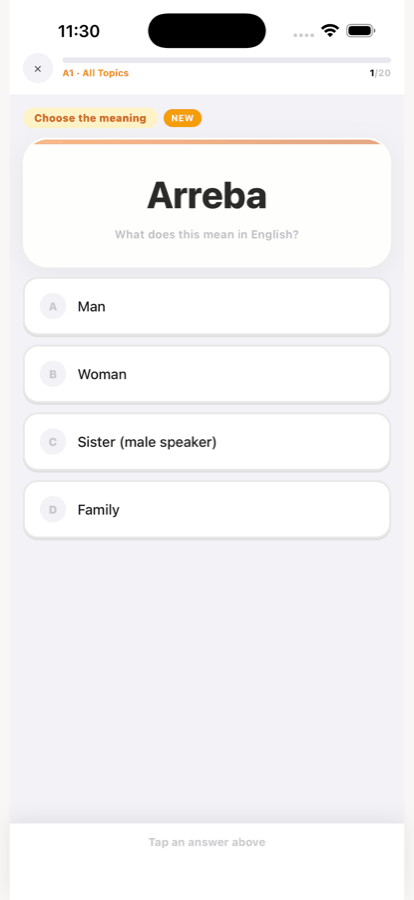
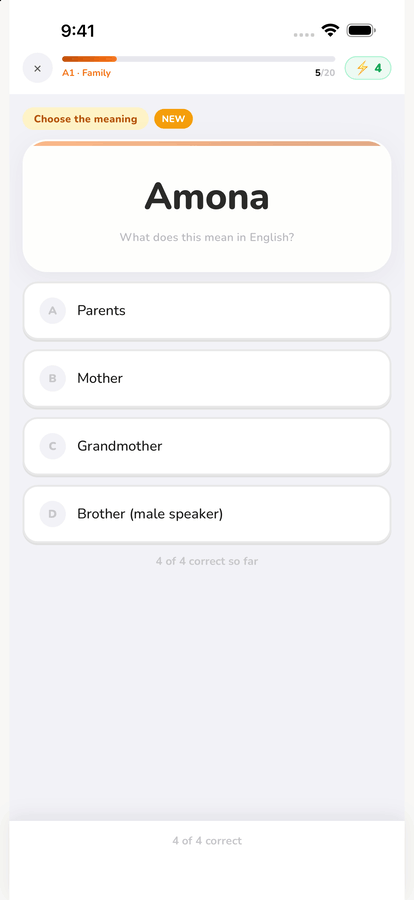
Site: retake the screenshots from 1.6 and rebuild the share card
The five app screenshots predated 1.6 and still showed 28 dishes, a
26-lesson path in 6 chapters and 303 free words. They are retaken from
the 1.6 source on an iPhone 17 Pro Max simulator: 27 dishes, 99 lessons
in 33 chapters, 341 of 1052 words.

The share card said "939 words" and "the story behind it". It now says
"Over 1,000 words, each with a pronunciation guide, an example sentence
and a short note", which holds as the vocabulary grows. Its source is
tools/social-card.html, with the render command in the file, because
the original source was never kept.

The games copy said 28 dishes; the app has said 27 since 1.6.

diff --git a/tools/social-card.html b/tools/social-card.html
@@ -1,0 +1,39 @@
+<!DOCTYPE html>
+<!--
+  Source for assets/social-card.png, the 1200x630 link preview image.
+  The PNG is not stamped by sync-vocab, so keep its claims drift-proof:
+  no exact word count, and only what every word has.
+
+  Render from the repo root:
+    "/Applications/Google Chrome.app/Contents/MacOS/Google Chrome" --headless \
+      --disable-gpu --hide-scrollbars --force-device-scale-factor=1 \
+      --window-size=1200,630 --screenshot=assets/social-card.png \
+      "file://$PWD/tools/social-card.html"
+-->
+<html><head><meta charset="utf-8">
+<style>
+  *{margin:0;padding:0;box-sizing:border-box;}
+  html,body{width:1200px;height:630px;overflow:hidden;}
+  body{font-family:"Helvetica Neue",Helvetica,Arial,sans-serif;color:#16241B;
+    background:linear-gradient(180deg,#FDF8ED 0%,#F4EBD6 100%);position:relative;}
+  .kaixo{position:absolute;left:100px;top:188px;font-size:27px;font-weight:700;
+    letter-spacing:0.3em;color:#DA291C;line-height:1;}
+  h1{position:absolute;left:97px;top:241px;font-size:65px;font-weight:700;
+    letter-spacing:-0.015em;line-height:72px;white-space:nowrap;}
+  h1 .g{color:#009B48;}
+  .sub{position:absolute;left:100px;top:404px;font-size:27px;font-weight:400;
+    line-height:38px;color:#5F6B62;white-space:nowrap;}
+  .rule{position:absolute;left:100px;top:516px;width:150px;height:4px;background:#009B48;border-radius:2px;}
+  .foot{position:absolute;left:100px;top:540px;font-size:25px;line-height:30px;color:#8A9288;white-space:nowrap;}
+  .foot b{color:#16241B;font-weight:700;margin-right:18px;}
+  .icon{position:absolute;left:776px;top:150px;width:300px;height:300px;border-radius:68px;
+    box-shadow:0 22px 44px rgba(60,48,20,0.16);display:block;}
+</style></head>
+<body>
+  <div class="kaixo">KAIXO!</div>
+  <h1>Learn Basque,<br><span class="g">straight from English.</span></h1>
+  <p class="sub">Over 1,000 words, each with a pronunciation guide,<br>an example sentence and a short note.</p>
+  <div class="rule"></div>
+  <div class="foot"><b>Ikasi &amp; Go</b>Free on the App Store · iPhone &amp; iPad</div>
+  <img class="icon" src="../ios/App/App/Assets.xcassets/AppIcon.appiconset/AppIcon-1024.png" alt="">
+</body></html>

diff --git a/index.html b/index.html
@@ -206,14 +206,14 @@ a.cta:active{transform:translateY(5px);box-shadow:0 0 0 var(--green-deep);}
       <h2>A note on every word.</h2>
       <p>Some notes explain where a word came from. Others give the history around it or show how people use it. Learn <em>arreba</em> and find out that Basque picks the word for sister by the speaker's gender. Learn <em>etxea</em> and meet the house your surname may have come from.</p>
     </div>
-    <div class="feature-shot reveal"><img src="/assets/shots/03-note.png" width="414" height="900" loading="lazy" decoding="async" alt="A cultural note explaining a Basque word"></div>
+    <div class="feature-shot reveal"><img src="/assets/shots/03-note.png" width="414" height="900" loading="lazy" decoding="async" alt="A note explaining where a Basque word came from"></div>
   </div>
 
   <div class="feature-row">
     <div class="feature-copy reveal">
       <div class="eyebrow">Play</div>
       <h2>Six games, one kitchen.</h2>
-      <p>Cook 28 classic Basque dishes by picking the right ingredients, build family trees, match colors, race the clock. The vocabulary sticks because you used it.</p>
+      <p>Cook 27 classic Basque dishes by picking the right ingredients, build family trees, match colors, race the clock. The vocabulary sticks because you used it.</p>
     </div>
     <div class="feature-shot reveal"><img src="/assets/shots/04-games.png" width="414" height="900" loading="lazy" decoding="async" alt="The games menu showing Koloreak, Basque Kitchen, Arbola Familiarra and more"></div>
   </div>
